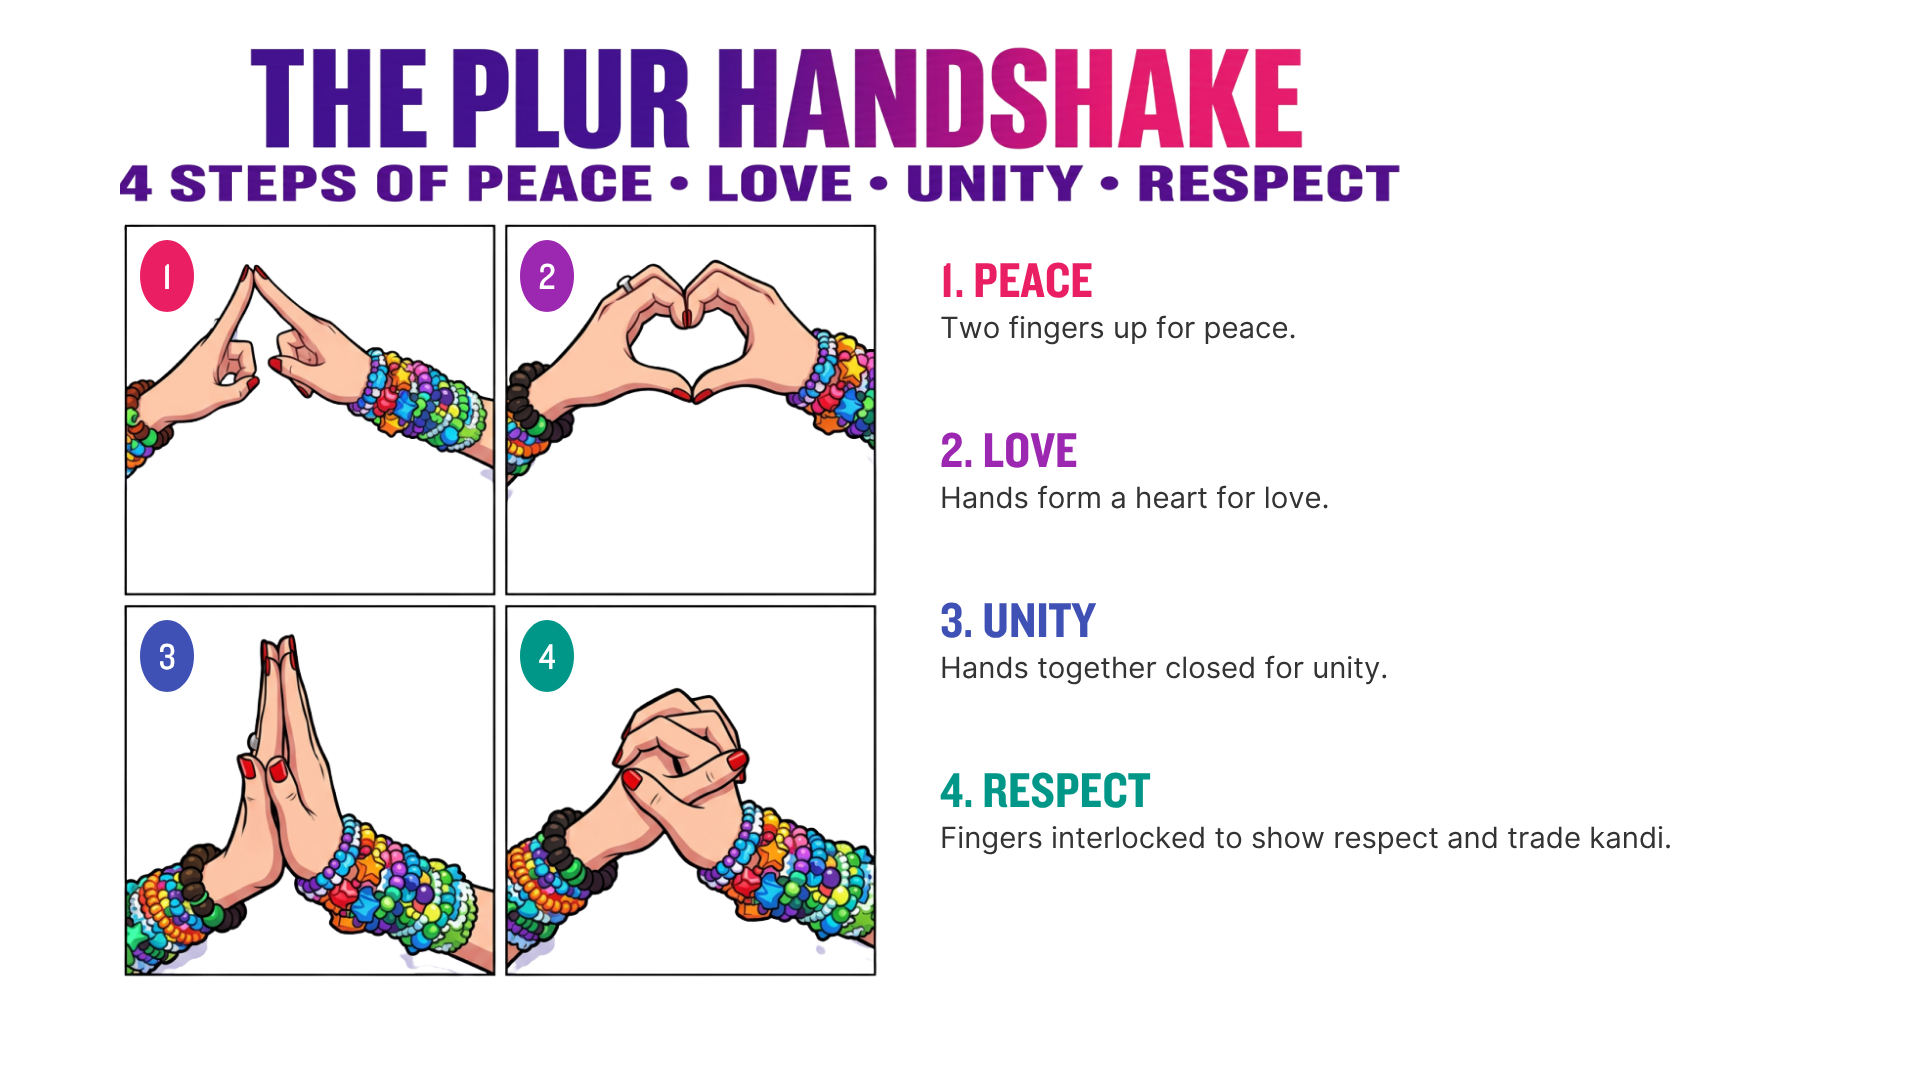
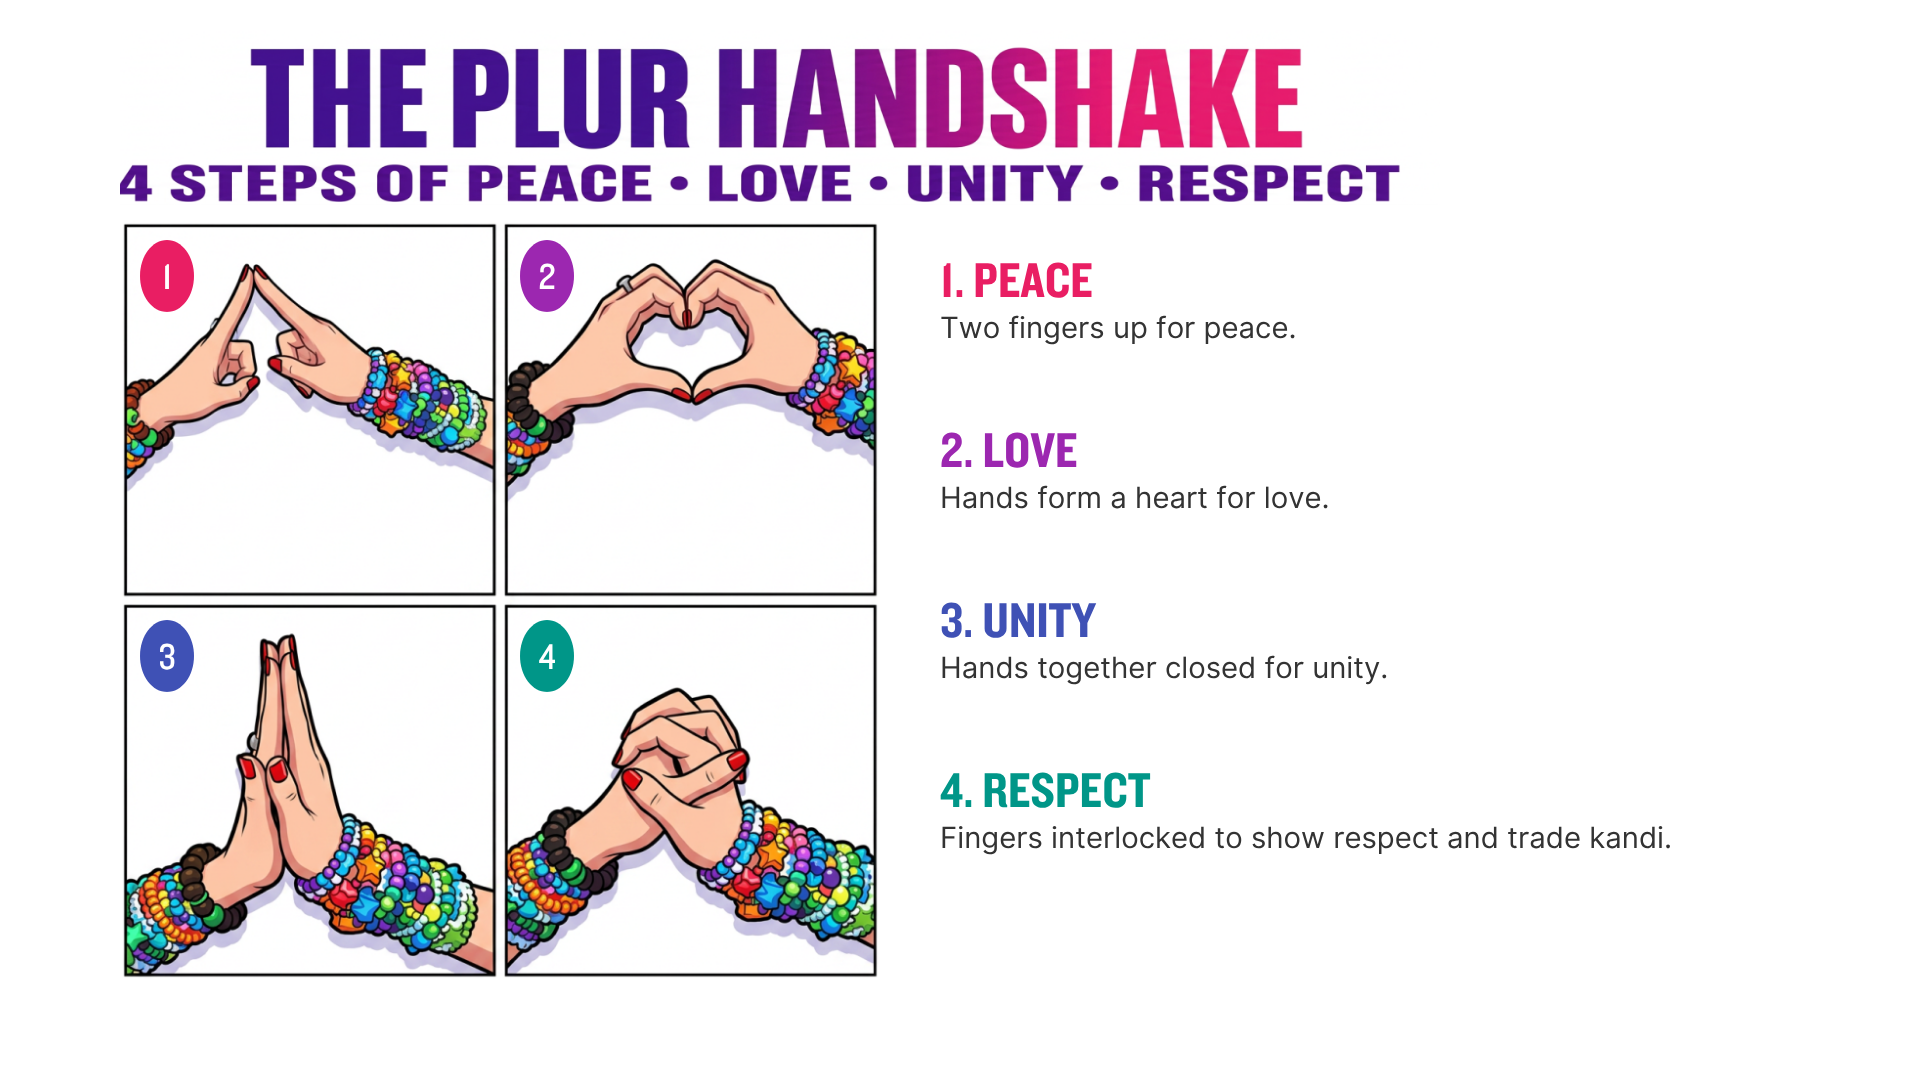
update PLUR handshake image + add to history-of-plur post

diff --git a/js/data.js b/js/data.js
@@ -765,6 +765,8 @@ PLURGASM_DATA.blogPosts = [
     something to do with your hands during the long weeks between parties.
     The trading of them became a ritual.</p>
 
+    <img src="/images/plur/plur-handshake.png" alt="The PLUR handshake: Peace, Love, Unity and Respect hand gestures showing how to trade kandi" style="width:100%;max-width:100%;margin:24px 0;" />
+
     <p>The PLUR handshake formalized that ritual.
     Four gestures, one for each letter.
     Press palms together for Peace.
